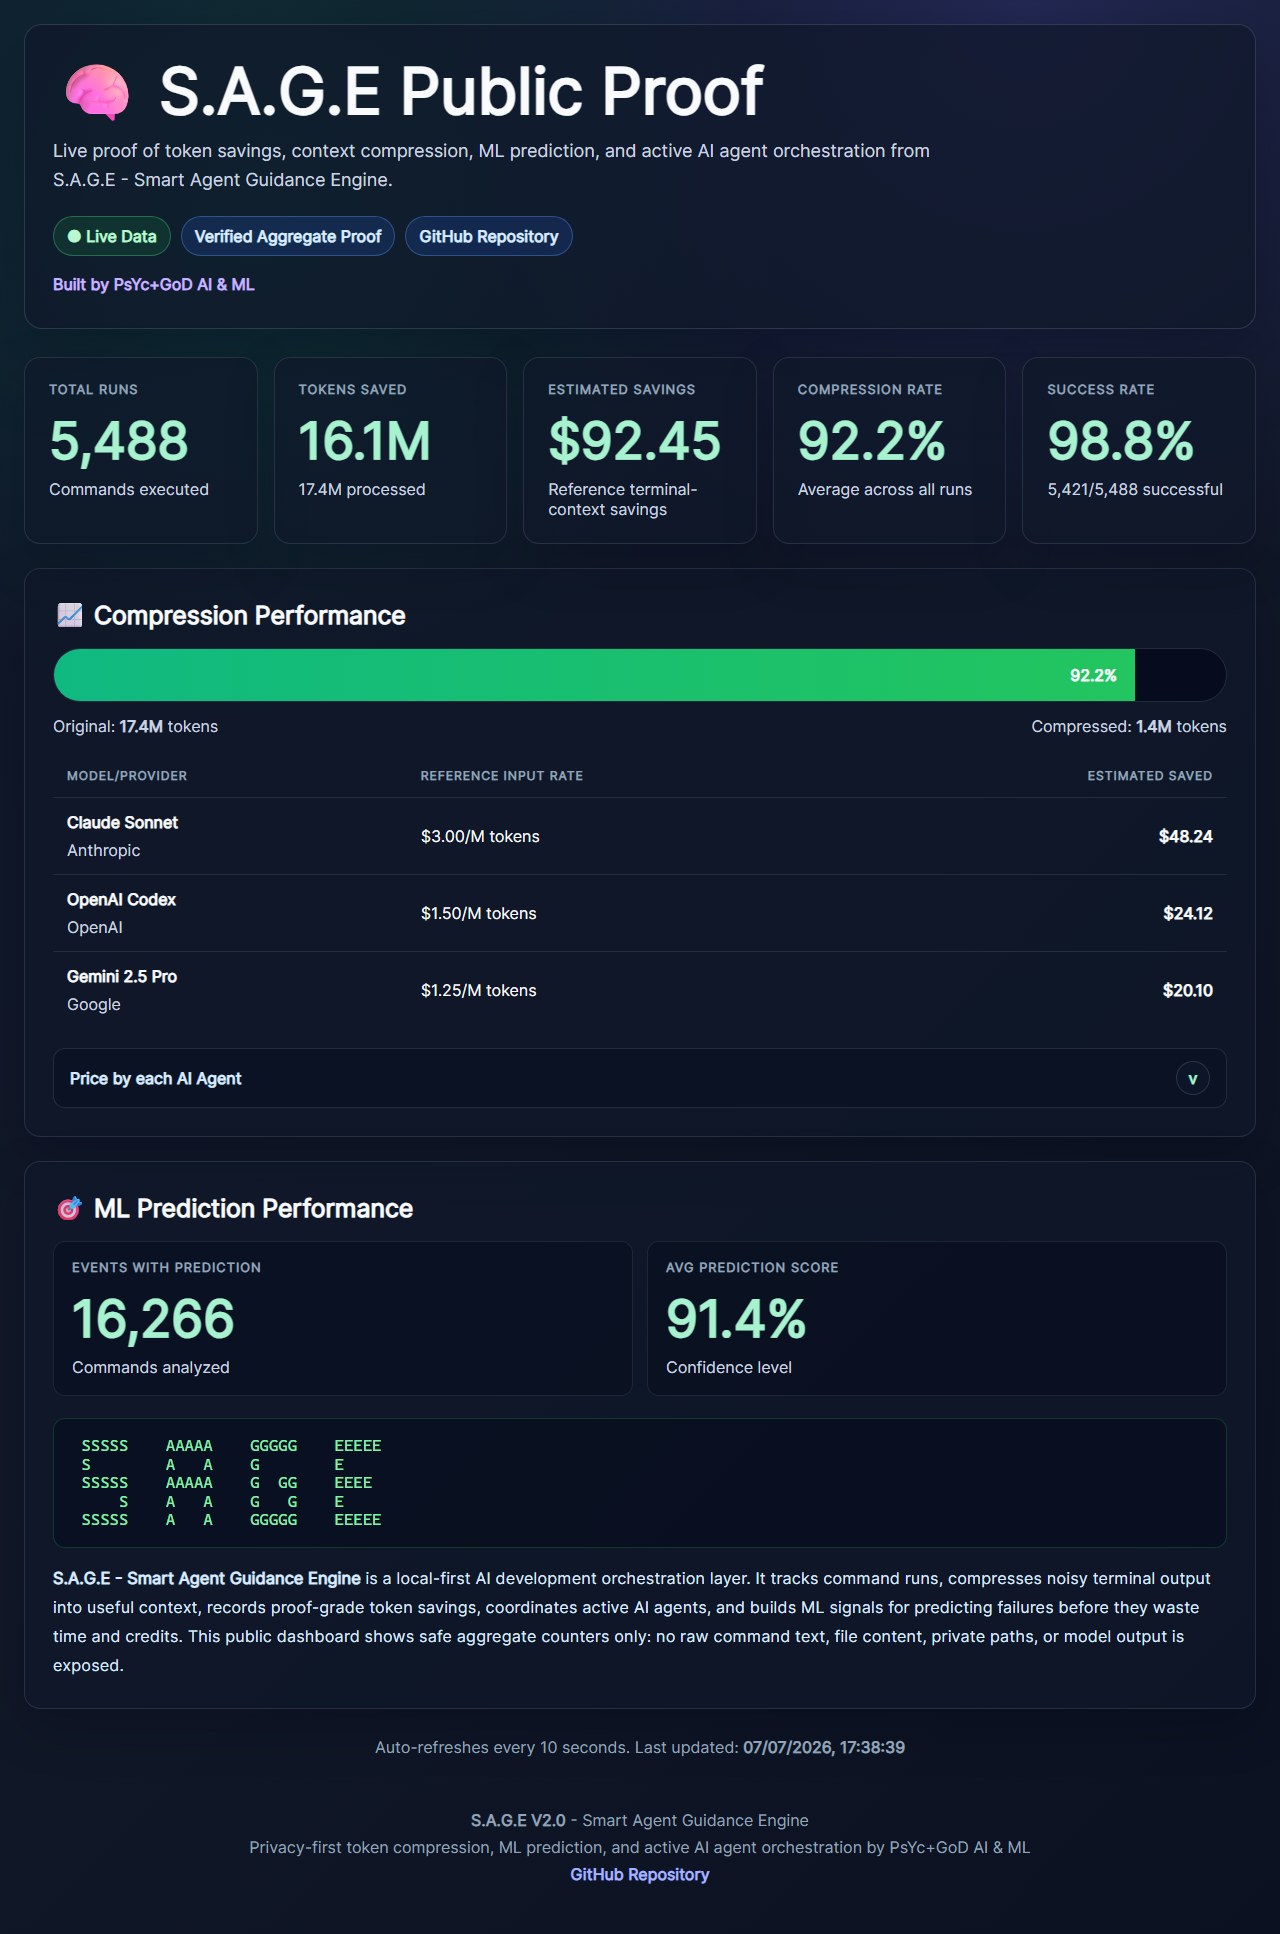
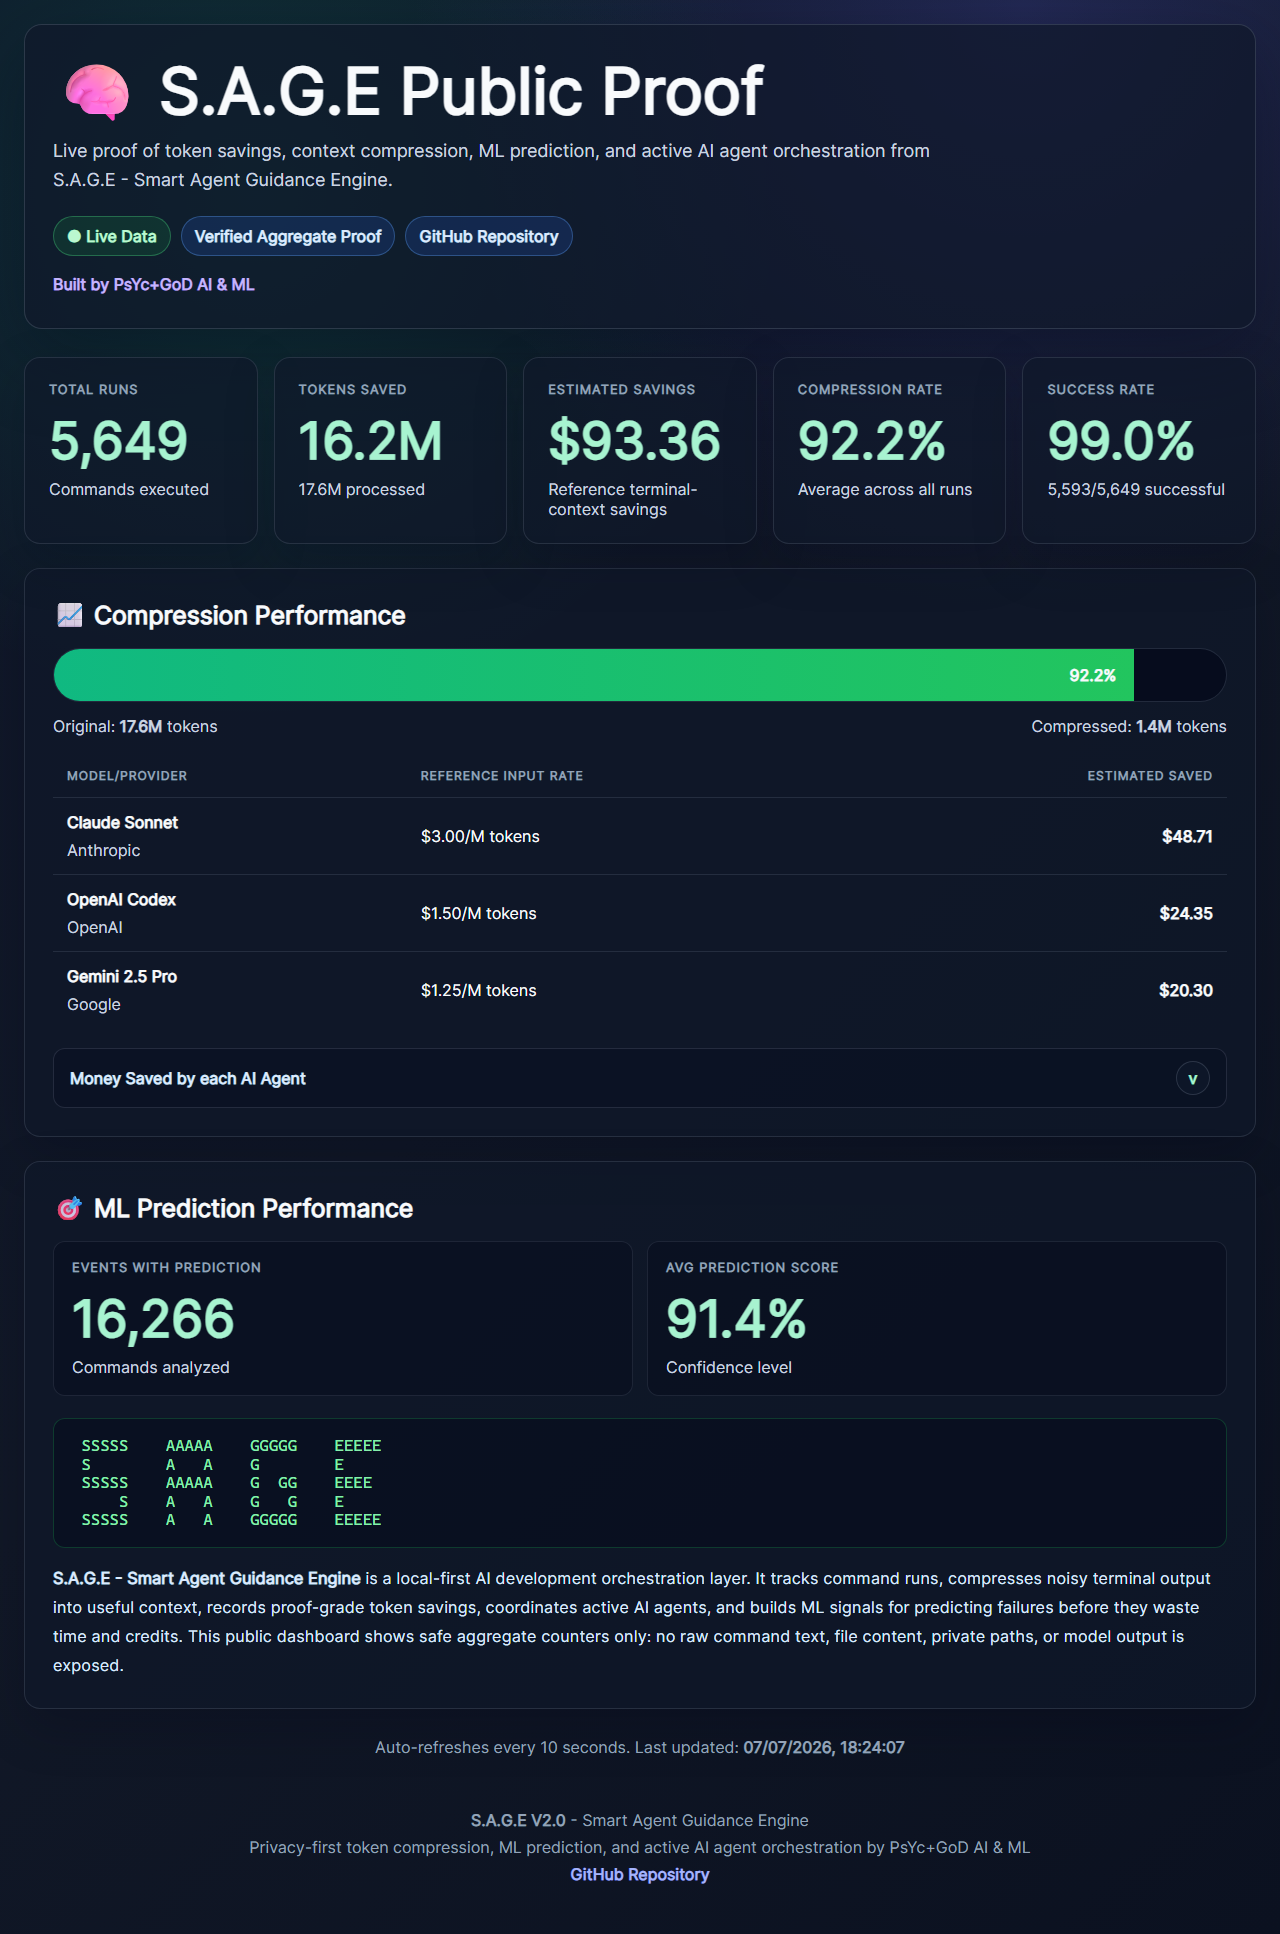
Fix AI agent savings attribution

diff --git a/cloudflare/sage-api/src/worker.js b/cloudflare/sage-api/src/worker.js
@@ -13,10 +13,12 @@ const MODEL_SAVINGS_PROFILES = [
 ];
 
 const AGENT_SAVINGS_PROFILES = [
+  { agent: "claude-cli", label: "Claude CLI", provider: "Anthropic", model: "Claude Sonnet", input_rate_per_million: 3.0 },
+  { agent: "codex-cli", label: "Codex CLI", provider: "OpenAI", model: "OpenAI Codex", input_rate_per_million: 1.5 },
+  { agent: "sage-desktop", label: "SAGE Desktop", provider: "SAGE", model: "Desktop app", input_rate_per_million: 0.0 },
   { agent: "claude-code", label: "Claude Code", provider: "Anthropic", model: "Claude Sonnet", input_rate_per_million: 3.0 },
   { agent: "opencode", label: "OpenCode", provider: "OpenCode", model: "Claude Sonnet", input_rate_per_million: 3.0 },
-  { agent: "cursor", label: "Cursor", provider: "Cursor", model: "Claude Sonnet", input_rate_per_million: 3.0 },
-  { agent: "cursor-openai", label: "Cursor", provider: "Cursor", model: "OpenAI Codex", input_rate_per_million: 1.5 },
+  { agent: "cursor", label: "Cursor", provider: "Cursor", model: "OpenAI Codex", input_rate_per_million: 1.5 },
   { agent: "windsurf", label: "Windsurf", provider: "Codeium", model: "Claude Sonnet", input_rate_per_million: 3.0 },
   { agent: "aider", label: "Aider", provider: "Aider", model: "Claude Sonnet", input_rate_per_million: 3.0 },
   { agent: "copilot", label: "GitHub Copilot coding agent", provider: "GitHub", model: "GitHub Copilot", input_rate_per_million: 0.0 },
@@ -209,7 +211,7 @@ const PUBLIC_PROOF_DASHBOARD_HTML = `<!DOCTYPE html>
           </tbody>
         </table>
         <details class="agent-savings">
-          <summary>Price by each AI Agent</summary>
+          <summary>Money Saved by each AI Agent</summary>
           <table class="savings-table" aria-label="Estimated savings by AI agent">
             <thead>
               <tr><th>AI agent/provider</th><th>Model used</th><th>Estimated saved</th></tr>
@@ -414,15 +416,15 @@ function buildSavingsByModel(savedTokens) {
   }));
 }
 
-function buildSavingsByAgent() {
+function buildSavingsByAgent(usageByAgent = {}) {
   return AGENT_SAVINGS_PROFILES.map((profile) => ({
     agent: profile.agent,
     label: profile.label,
     provider: profile.provider,
     model: profile.model,
-    saved_tokens: 0,
+    saved_tokens: clampInt(usageByAgent[profile.agent], 0, 2147483647, 0),
     input_rate_per_million: profile.input_rate_per_million,
-    estimated_savings_usd: 0,
+    estimated_savings_usd: roundMoney((clampInt(usageByAgent[profile.agent], 0, 2147483647, 0) / 1000000) * profile.input_rate_per_million),
   }));
 }
 

diff --git a/src/sage/savings.py b/src/sage/savings.py
@@ -22,6 +22,24 @@ MODEL_SAVINGS_PROFILES: dict[str, dict[str, Any]] = {
 }
 
 AGENT_SAVINGS_PROFILES: dict[str, dict[str, Any]] = {
+    "claude-cli": {
+        "label": "Claude CLI",
+        "provider": "Anthropic",
+        "model": "Claude Sonnet",
+        "input_rate_per_million": 3.0,
+    },
+    "codex-cli": {
+        "label": "Codex CLI",
+        "provider": "OpenAI",
+        "model": "OpenAI Codex",
+        "input_rate_per_million": 1.5,
+    },
+    "sage-desktop": {
+        "label": "SAGE Desktop",
+        "provider": "SAGE",
+        "model": "Desktop app",
+        "input_rate_per_million": 0.0,
+    },
     "claude-code": {
         "label": "Claude Code",
         "provider": "Anthropic",
@@ -35,12 +53,6 @@ AGENT_SAVINGS_PROFILES: dict[str, dict[str, Any]] = {
         "input_rate_per_million": 3.0,
     },
     "cursor": {
-        "label": "Cursor",
-        "provider": "Cursor",
-        "model": "Claude Sonnet",
-        "input_rate_per_million": 3.0,
-    },
-    "cursor-openai": {
         "label": "Cursor",
         "provider": "Cursor",
         "model": "OpenAI Codex",
@@ -101,8 +113,19 @@ def estimate_total_model_savings_usd(saved_tokens: int) -> float:
     return round(sum(row["estimated_savings_usd"] for row in build_model_savings(saved_tokens)), 4)
 
 
+def default_agent_usage(saved_tokens: int) -> dict[str, int]:
+    """Current public proof has model-level totals, not historical editor attribution."""
+    saved = max(0, int(saved_tokens or 0))
+    if not saved:
+        return {}
+    return {
+        "claude-cli": saved,
+        "codex-cli": saved,
+    }
+
+
 def build_agent_savings(saved_tokens: int, used_agents: dict[str, int] | None = None) -> list[dict[str, Any]]:
-    usage = used_agents or {}
+    usage = default_agent_usage(saved_tokens) if used_agents is None else used_agents
     rows: list[dict[str, Any]] = []
     for agent, profile in AGENT_SAVINGS_PROFILES.items():
         agent_saved = int(usage.get(agent, 0) or 0)

diff --git a/tests/test_commands_and_telemetry.py b/tests/test_commands_and_telemetry.py
@@ -211,9 +211,17 @@ def test_public_proof_snapshot_includes_agent_savings(monkeypatch, tmp_path):
     assert totals["savings_by_model"][0]["estimated_savings_usd"] == 4.5
     assert totals["savings_by_model"][1]["model"] == "codex"
     assert totals["savings_by_model"][1]["estimated_savings_usd"] == 2.25
-    assert totals["savings_by_agent"][0]["agent"] == "claude-code"
+    assert totals["savings_by_agent"][0]["agent"] == "claude-cli"
     assert totals["savings_by_agent"][0]["model"] == "Claude Sonnet"
-    assert totals["savings_by_agent"][0]["estimated_savings_usd"] == 0
+    assert totals["savings_by_agent"][0]["estimated_savings_usd"] == 4.5
+    assert totals["savings_by_agent"][1]["agent"] == "codex-cli"
+    assert totals["savings_by_agent"][1]["model"] == "OpenAI Codex"
+    assert totals["savings_by_agent"][1]["estimated_savings_usd"] == 2.25
+    unused_agents = {
+        row["agent"]: row for row in totals["savings_by_agent"] if row["agent"] in {"cursor", "windsurf", "aider"}
+    }
+    assert unused_agents
+    assert all(row["estimated_savings_usd"] == 0 for row in unused_agents.values())
     assert "command" not in snapshot
     assert "stdout" not in snapshot
 

diff --git a/tests/test_public_release_docs.py b/tests/test_public_release_docs.py
@@ -54,7 +54,10 @@ def test_public_worker_dashboard_exposes_aggregate_savings():
     assert "Estimated Savings" in worker
     assert "Estimated savings by model" in worker
     assert "Estimated savings by AI agent" in worker
-    assert "Price by each AI Agent" in worker
+    assert "Money Saved by each AI Agent" in worker
+    assert "Claude CLI" in worker
+    assert "Codex CLI" in worker
+    assert "SAGE Desktop" in worker
     assert "Claude Code" in worker
     assert "OpenCode" in worker
     assert "Cursor" in worker

diff --git a/README.md b/README.md
@@ -27,13 +27,13 @@ Latest verified snapshot:
 
 | Metric | Value |
 |--------|------:|
-| Commands processed | 5,488 |
-| Tokens processed | 17,431,631 |
-| Tokens compressed | 1,352,607 |
-| Tokens saved | 16,079,024 |
-| Estimated savings | $92.45 |
-| Compression rate | 92.24% |
-| Success rate | 98.78% |
+| Commands processed | 5,650 |
+| Tokens processed | 17,614,532 |
+| Tokens compressed | 1,378,116 |
+| Tokens saved | 16,236,416 |
+| Estimated savings | $93.36 |
+| Compression rate | 92.18% |
+| Success rate | 99.01% |
 
 These stats reflect the public CLI proof snapshot after the hosted dashboard went live.
 Raw commands, outputs, file paths, and logs stay local by default. Public proof uses aggregate counters only.